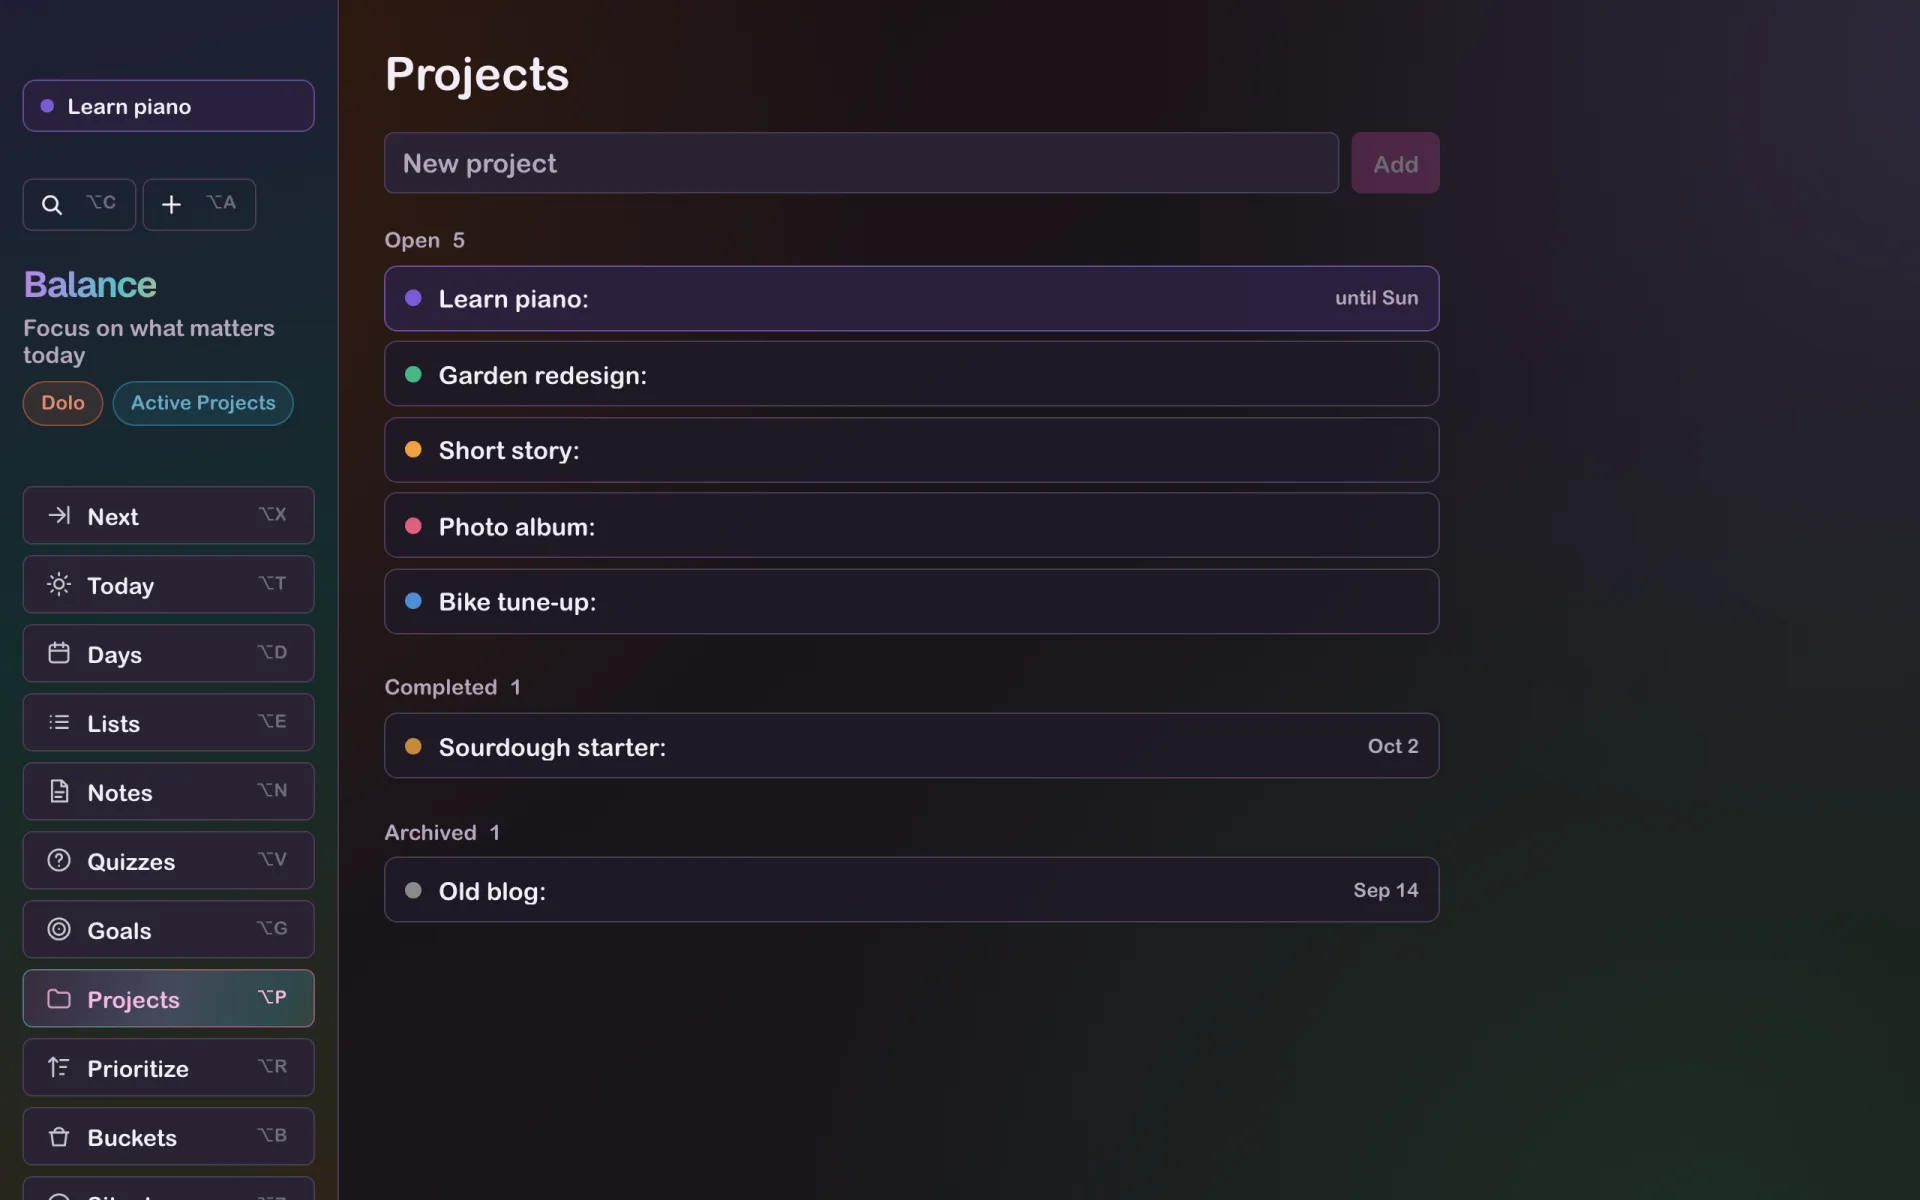
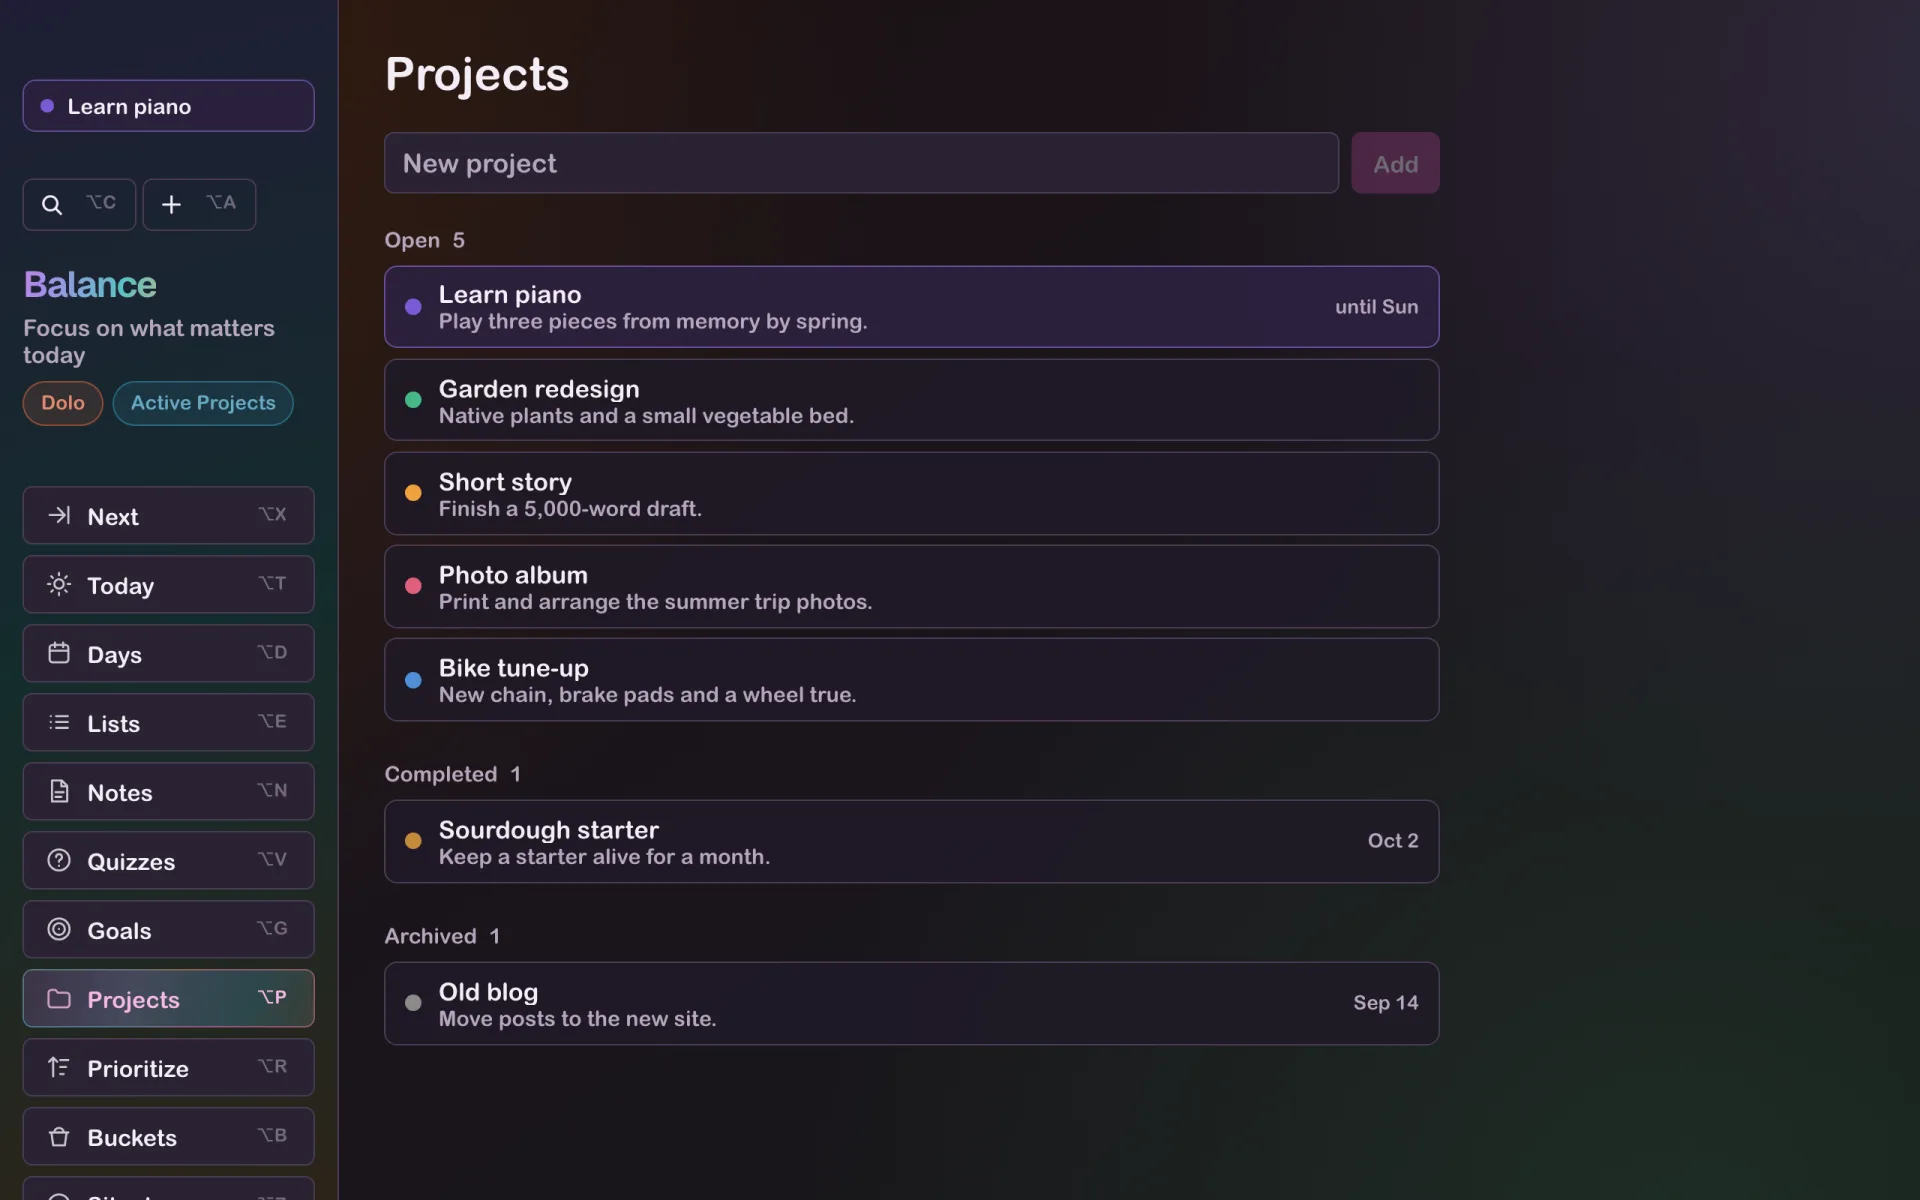
Projects: show the description's first line under the name instead of a colon

diff --git a/tests/visual/projects.spec.ts b/tests/visual/projects.spec.ts
@@ -81,7 +81,7 @@ test('completed and archived projects move to dated sections and support undo, r
   await details.getByRole('button', { name: 'Complete', exact: true }).click()
   await expect(details.getByText('Completed Sep 8')).toBeVisible()
   await details.getByRole('button', { name: 'Close', exact: true }).click()
-  await expect(completed.locator('.project-card')).toHaveText(/Synthetic garden:\s*Sep 8/)
+  await expect(completed.locator('.project-card')).toHaveText(/Synthetic garden\s*Native plants\s*Sep 8/)
   await expect(open.locator('.project-card')).toHaveText(['Synthetic shed'])
   await expect(page.locator('.sidebar-active-projects')).toHaveCount(0)
   const afterComplete = (await readState(page)).projects.find((project: any) => project.name === 'Synthetic garden')
@@ -100,7 +100,7 @@ test('completed and archived projects move to dated sections and support undo, r
   await details.getByRole('button', { name: 'Archive', exact: true }).click()
   await expect(details.getByText('Archived Sep 8')).toBeVisible()
   await details.getByRole('button', { name: 'Close', exact: true }).click()
-  await expect(archived.locator('.project-card')).toHaveText(/Synthetic garden:\s*Sep 8/)
+  await expect(archived.locator('.project-card')).toHaveText(/Synthetic garden\s*Native plants\s*Sep 8/)
   await page.reload()
   await openView(page, 'Projects')
   await expect(archived.locator('.project-card')).toHaveText(/Synthetic garden/)
@@ -108,7 +108,7 @@ test('completed and archived projects move to dated sections and support undo, r
 
   await archived.locator('.project-card').click()
   await details.getByRole('button', { name: 'Restore', exact: true }).click()
-  await expect(open.locator('.project-card')).toHaveText(['Synthetic garden:', 'Synthetic shed'])
+  await expect(open.locator('.project-card')).toHaveText([/^\s*Synthetic garden\s*Native plants\s*$/, 'Synthetic shed'])
   await details.getByRole('button', { name: 'Archive', exact: true }).click()
   page.once('dialog', (dialog) => dialog.dismiss())
   await details.getByRole('button', { name: 'Delete forever', exact: true }).click()
@@ -352,13 +352,13 @@ test('rapid adding keeps the cursor in place, and the name field opens at its en
   const editName = details.getByRole('textbox', { name: 'Project name', exact: true })
   await expect(editName).toBeFocused()
   await page.keyboard.type(' plan ')
-  await details.getByRole('textbox', { name: 'Description' }).fill('Synthetic notes')
+  await details.getByRole('textbox', { name: 'Description' }).fill('Synthetic notes\n\nMore')
   await details.getByRole('textbox', { name: 'Description' }).blur()
   await editName.focus()
   await editName.press('Enter')
   await expect(details).toHaveCount(0)
-  // A description adds one colon after the trimmed name, on the card only.
-  await expect(page.locator('.project-card .project-name')).toHaveText(['Synthetic one plan:', 'Synthetic two'])
+  await expect(page.locator('.project-card .project-name')).toHaveText(['Synthetic one plan', 'Synthetic two'])
+  await expect(page.locator('.project-card .project-description')).toHaveText(['Synthetic notes…'])
   const { projects } = await readState(page)
   expect(projects.find((project: any) => project.name.startsWith('Synthetic one')).name).toBe('Synthetic one plan')
 })

diff --git a/src/lib/ProjectCard.svelte b/src/lib/ProjectCard.svelte
@@ -8,20 +8,12 @@
   export let active = false
   export let highlighted = false
   export let onOpen: (projectId: string) => void
-  $: nameHtml = withDescriptionColon(sanitizeInlineHTML(project.nameHtml ?? escapeHTML(project.name)), Boolean(project.description.trim()))
-  // A trailing colon hints that the project has a description; only the card shows it.
-  function withDescriptionColon(html: string, hasDescription: boolean) {
-    if (!hasDescription) return html
-    let rest = html
-    let closingTags = ''
-    for (;;) {
-      rest = rest.replace(/(?:\s|&nbsp;|&#160;)+$/, '')
-      const tag = rest.match(/<\/[a-z]+>$|<br\s*\/?>$/i)
-      if (!tag) break
-      rest = rest.slice(0, -tag[0].length)
-      if (!tag[0].startsWith('<br')) closingTags = tag[0] + closingTags
-    }
-    return rest.endsWith(':') ? rest + closingTags : `${rest}${closingTags}:`
+  $: nameHtml = sanitizeInlineHTML(project.nameHtml ?? escapeHTML(project.name))
+  $: descriptionPreview = previewLine(project.description)
+  // The card shows the description's first line; an ellipsis marks that more follows.
+  function previewLine(description: string) {
+    const [first = '', ...rest] = description.trim().split(/\s*\n\s*/)
+    return rest.length ? `${first}…` : first
   }
   function click(event: MouseEvent) {
     const anchor = event.target instanceof Element ? event.target.closest<HTMLAnchorElement>('a[href]') : null
@@ -51,7 +43,10 @@
   }}
 >
   <span class="project-dot" aria-hidden="true"></span>
-  <span class="project-name">{@html nameHtml}</span>
+  <span class="project-text">
+    <span class="project-name">{@html nameHtml}</span>
+    {#if descriptionPreview}<span class="project-description">{descriptionPreview}</span>{/if}
+  </span>
   {#if note}<span class="project-note">{note}</span>{/if}
 </div>
 
@@ -65,7 +60,10 @@
     100% { box-shadow: 0 0 0 3px transparent; }
   }
   .project-dot { flex: 0 0 10px; width: 10px; height: 10px; border-radius: 50%; background: var(--project-color); }
-  .project-name { flex: 1; min-width: 0; overflow: hidden; text-overflow: ellipsis; white-space: nowrap; font-size: 15px; }
+  .project-text { display: flex; flex: 1; flex-direction: column; min-width: 0; }
+  .project-name, .project-description { overflow: hidden; text-overflow: ellipsis; white-space: nowrap; }
+  .project-name { font-size: 15px; }
+  .project-description { color: var(--muted); font-size: 13px; }
   .project-name :global(a) { color: inherit; text-decoration: underline; text-decoration-color: var(--accent-strong); }
   .project-note { flex: 0 0 auto; color: var(--muted); font-size: 12px; font-variant-numeric: tabular-nums; }
   @media (prefers-reduced-motion: reduce) {
